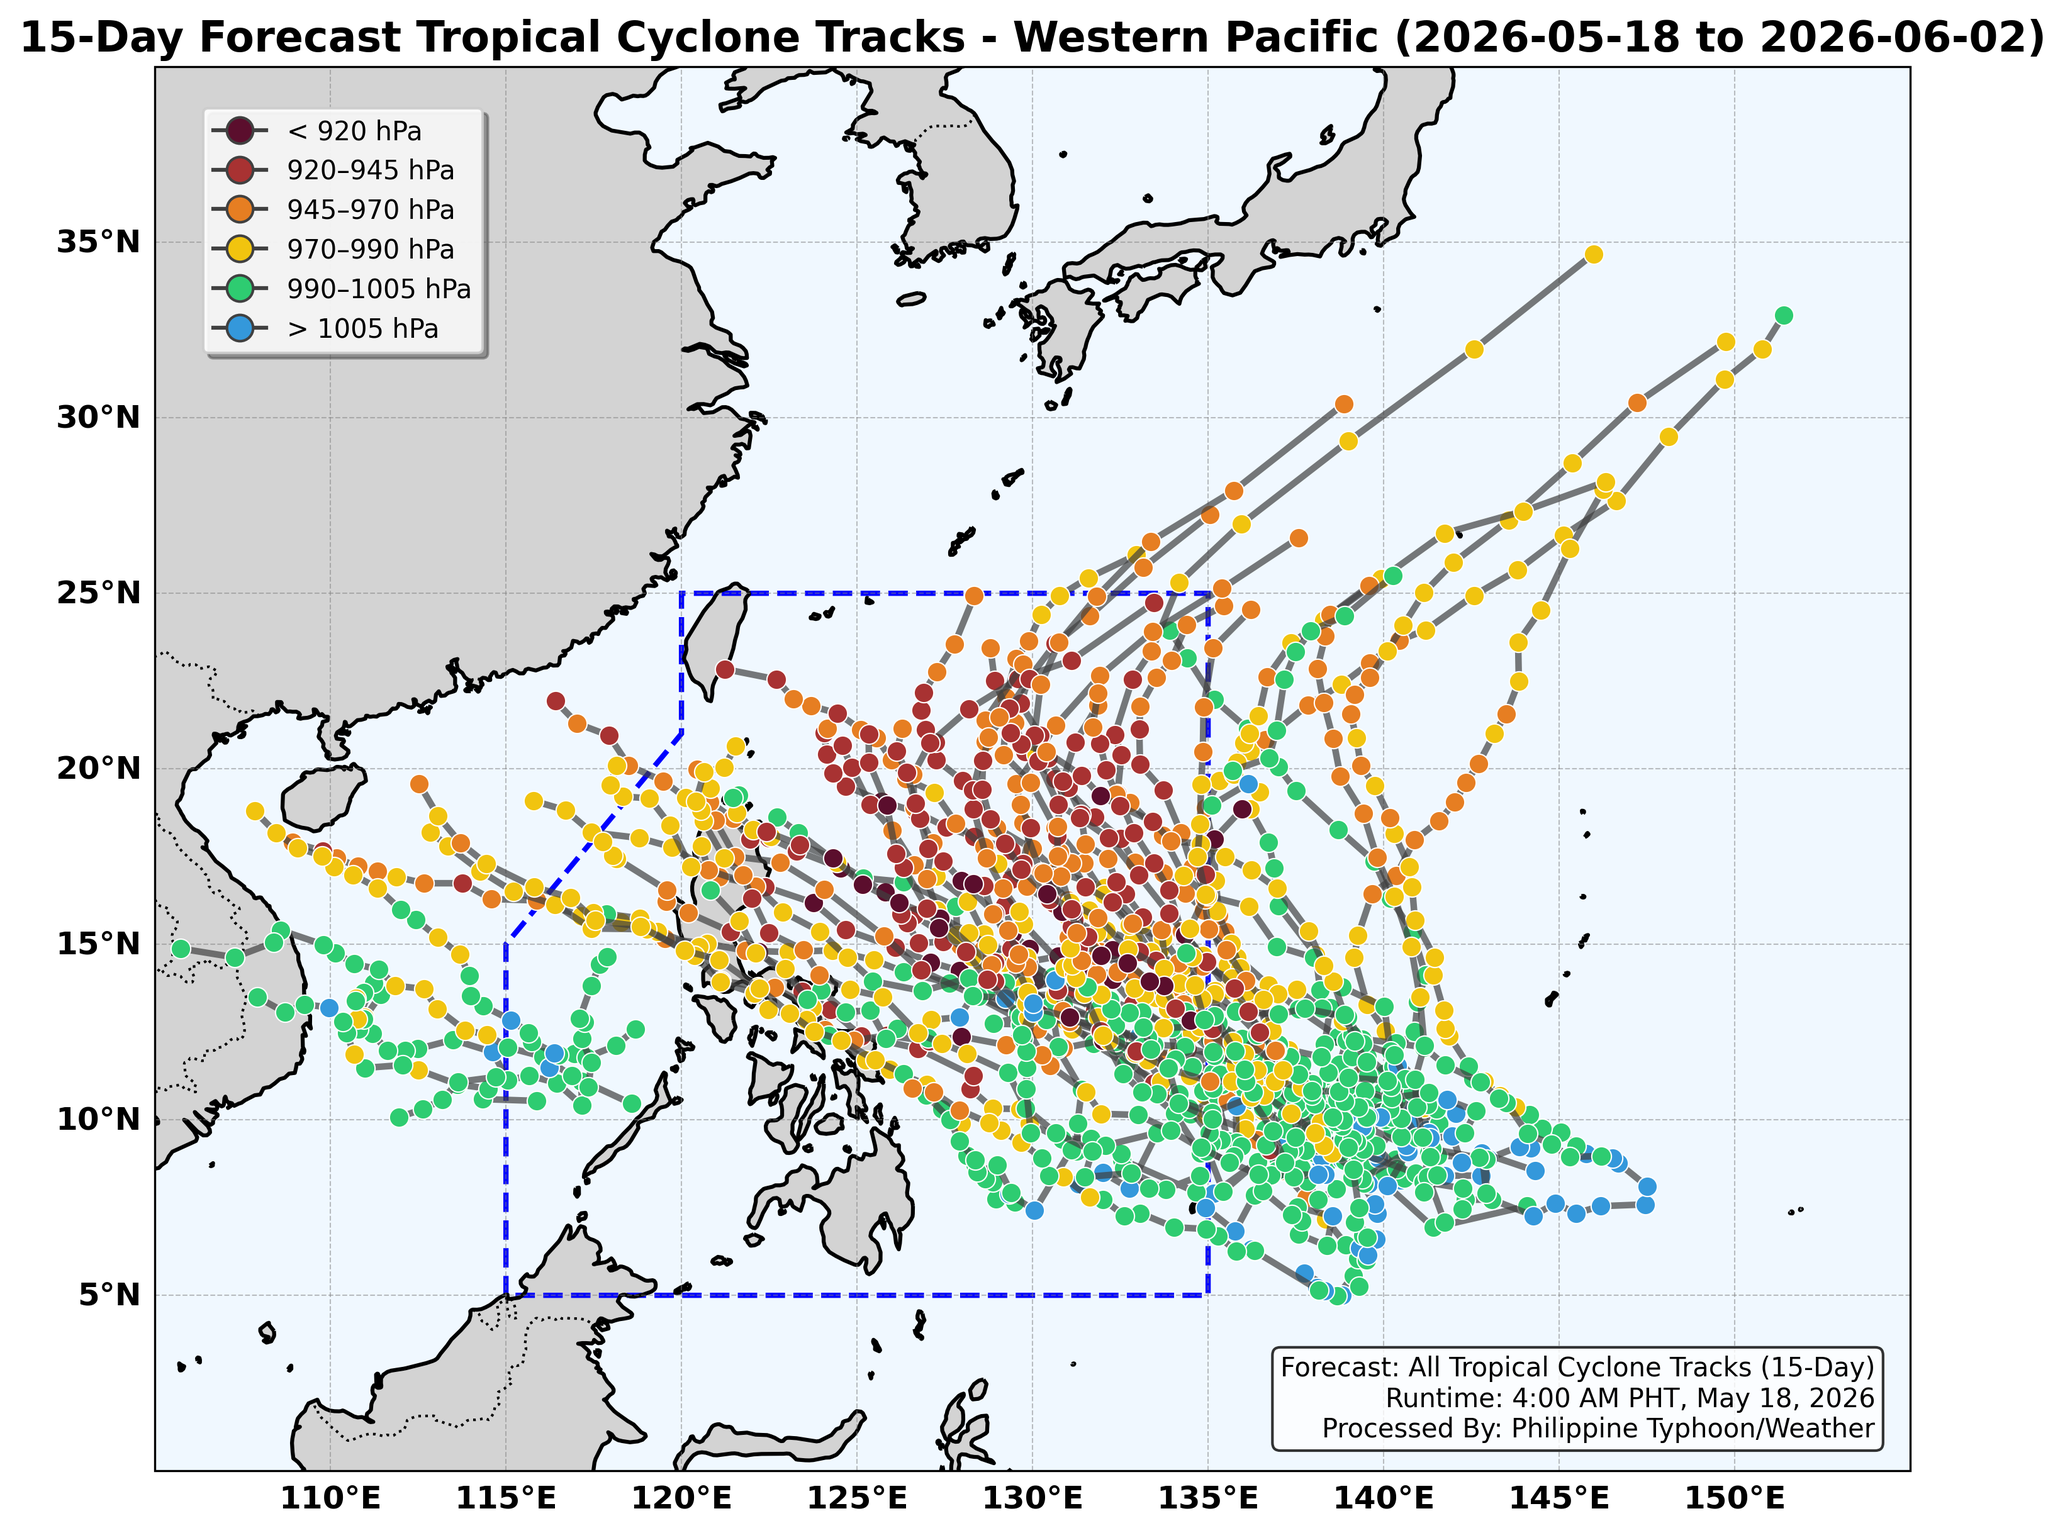
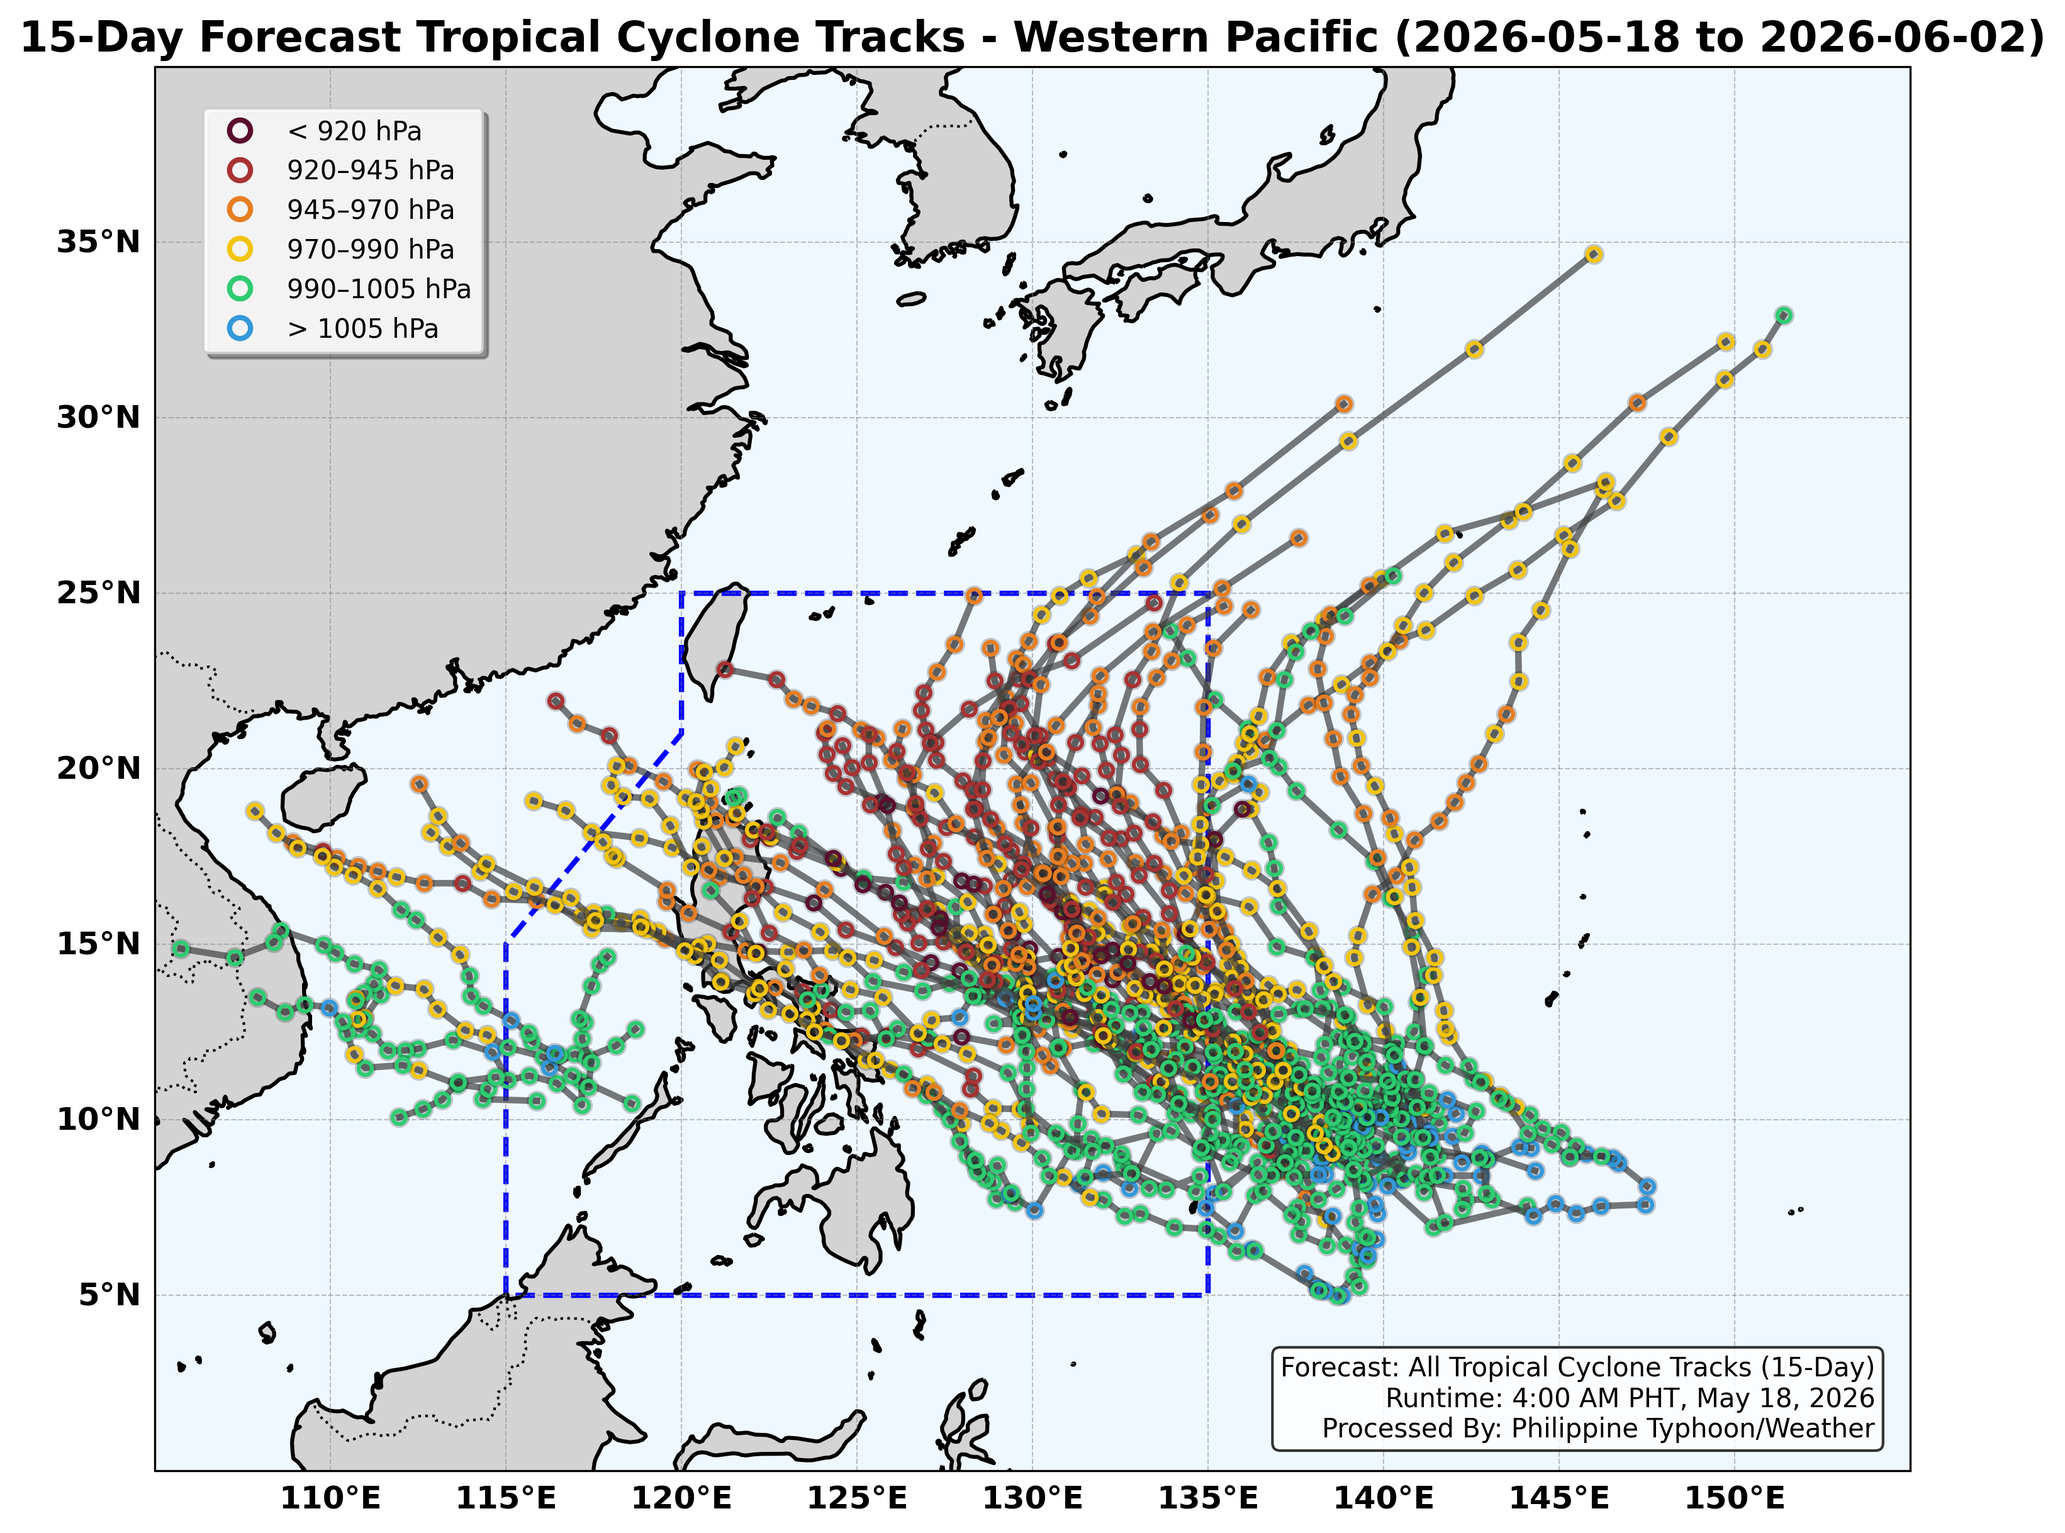
refactor: update visualization markers to donut style and add SpaghettiPlot component for web-based ensemble tracking

diff --git a/src/components/SpaghettiPlot.jsx b/src/components/SpaghettiPlot.jsx
@@ -538,8 +538,8 @@ export default function SpaghettiPlot() {
                 const animGroup = L.layerGroup().addTo(animLayerGroupRef.current);
 
                 const animMarker = L.circleMarker([0, 0], {
-                    radius: 5, color: "white", weight: 1,
-                    fillColor: "transparent", fillOpacity: 0.9, opacity: 0
+                    radius: 7, color: "#38bdf8", weight: 2,
+                    fillColor: "transparent", fillOpacity: 0, opacity: 0
                 }).addTo(animLayerGroupRef.current);
 
                 animObjectsRef.current.push({
@@ -560,13 +560,13 @@ export default function SpaghettiPlot() {
 
                 for (const pt of points) {
                     const mark = L.circleMarker([pt.lat, pt.lon], {
-                        radius: 3.5, color: "white", weight: 0.8,
-                        fillColor: windColor(pt.windKt), fillOpacity: 0.9,
-                        opacity: 1
+                        radius: 4, color: windColor(pt.windKt), weight: 1.5,
+                        fillColor: "transparent", fillOpacity: 0,
+                        opacity: 0.9
                     });
                     mark.distId = distId;
-                    mark.defaultFillOpacity = 0.9;
-                    mark.defaultStrokeOpacity = 1;
+                    mark.defaultFillOpacity = 0;
+                    mark.defaultStrokeOpacity = 0.9;
                     mark.addTo(layerGroupRef.current);
                 }
 
@@ -1135,8 +1135,8 @@ export default function SpaghettiPlot() {
                     // Mean position dots colored by wind speed
                     for (const pt of meanPts) {
                         const mk = L.circleMarker([pt.lat, pt.lon], {
-                            radius: 5, color: "#000000", weight: 2,
-                            fillColor: windColor(pt.windKt), fillOpacity: 1, opacity: 1
+                            radius: 6, color: windColor(pt.windKt), weight: 2,
+                            fillColor: "transparent", fillOpacity: 0, opacity: 1
                         });
                         mk.distId = dist.id;
 
@@ -1228,7 +1228,7 @@ export default function SpaghettiPlot() {
                 } else if (layer instanceof L.Polyline && !(layer instanceof L.CircleMarker)) {
                     layer.setStyle({ opacity: isSelected ? 0.95 : 0.05 });
                 } else if (layer instanceof L.CircleMarker) {
-                    layer.setStyle({ fillOpacity: isSelected ? 1 : 0.05, opacity: isSelected ? 1 : 0.05 });
+                    layer.setStyle({ fillOpacity: 0, opacity: isSelected ? 1 : 0.05 });
                 }
             });
         }
@@ -1326,9 +1326,9 @@ export default function SpaghettiPlot() {
             const lastPt = visiblePts[visiblePts.length - 1];
             obj.marker.setLatLng([lastPt.lat, lastPt.lon]);
             obj.marker.setStyle({
-                fillColor: windColor(lastPt.windKt),
+                color: windColor(lastPt.windKt),
                 opacity: 1,
-                fillOpacity: 0.9
+                fillOpacity: 0
             });
         }
     }, [animHour, viewMode, activeDisturbanceId, status, meanOnlyIds]);

diff --git a/plot_aifs_tracks.py b/plot_aifs_tracks.py
@@ -85,12 +85,17 @@ def generate_plot(data, max_lead_time, output_file, title, runtime_text):
                     skipped_tracks += 1
                     continue
 
-                ax.plot(lons, lats, color='#404040', linewidth=2.5, alpha=0.7, transform=ccrs.PlateCarree())
+                ax.plot(lons, lats, color='#1a1a1a', linewidth=2.0, alpha=0.55, transform=ccrs.PlateCarree())
                 for i in range(len(lons)):
                     color = get_pressure_color(pressures[i])
                     if color is None: continue
-                    ax.plot(lons[i], lats[i], color='white', marker='o', markersize=8, markeredgewidth=0, transform=ccrs.PlateCarree())
-                    ax.plot(lons[i], lats[i], color=color, marker='o', markersize=6, transform=ccrs.PlateCarree())
+                    # Shadow
+                    ax.plot(lons[i], lats[i], color='black', marker='o', markersize=8,
+                            markeredgewidth=0, alpha=0.2, transform=ccrs.PlateCarree(), zorder=4)
+                    # Colored donut ring (transparent center)
+                    ax.plot(lons[i], lats[i], markerfacecolor='none', markeredgecolor=color,
+                            marker='o', markersize=5, markeredgewidth=1.5,
+                            transform=ccrs.PlateCarree(), zorder=5)
                 plotted_tracks += 1
 
     pressure_ranges = [
@@ -102,7 +107,8 @@ def generate_plot(data, max_lead_time, output_file, title, runtime_text):
         {'pressure_range': '> 1005 hPa', 'color': '#3498DB'}
     ]
     legend_elements = [
-        plt.Line2D([0], [0], marker='o', color='#404040', markerfacecolor=r['color'], markersize=10, label=r['pressure_range'])
+        plt.Line2D([0], [0], marker='o', color='none', markerfacecolor='none',
+                   markeredgecolor=r['color'], markeredgewidth=2, markersize=8, label=r['pressure_range'])
         for r in pressure_ranges
     ]
     legend = ax.legend(handles=legend_elements, loc='upper left', bbox_to_anchor=(0.02, 0.98), frameon=True, fancybox=True, shadow=True, fontsize=10)

diff --git a/plot_ifs_tracks.py b/plot_ifs_tracks.py
@@ -85,12 +85,17 @@ def generate_plot(data, max_lead_time, output_file, title, runtime_text):
                     skipped_tracks += 1
                     continue
 
-                ax.plot(lons, lats, color='#404040', linewidth=2.5, alpha=0.7, transform=ccrs.PlateCarree())
+                ax.plot(lons, lats, color='#1a1a1a', linewidth=2.0, alpha=0.55, transform=ccrs.PlateCarree())
                 for i in range(len(lons)):
                     color = get_pressure_color(pressures[i])
                     if color is None: continue
-                    ax.plot(lons[i], lats[i], color='white', marker='o', markersize=8, markeredgewidth=0, transform=ccrs.PlateCarree())
-                    ax.plot(lons[i], lats[i], color=color, marker='o', markersize=6, transform=ccrs.PlateCarree())
+                    # Shadow
+                    ax.plot(lons[i], lats[i], color='black', marker='o', markersize=8,
+                            markeredgewidth=0, alpha=0.2, transform=ccrs.PlateCarree(), zorder=4)
+                    # Colored donut ring (transparent center)
+                    ax.plot(lons[i], lats[i], markerfacecolor='none', markeredgecolor=color,
+                            marker='o', markersize=5, markeredgewidth=1.5,
+                            transform=ccrs.PlateCarree(), zorder=5)
                 plotted_tracks += 1
 
     pressure_ranges = [
@@ -102,7 +107,8 @@ def generate_plot(data, max_lead_time, output_file, title, runtime_text):
         {'pressure_range': '> 1005 hPa', 'color': '#3498DB'}
     ]
     legend_elements = [
-        plt.Line2D([0], [0], marker='o', color='#404040', markerfacecolor=r['color'], markersize=10, label=r['pressure_range'])
+        plt.Line2D([0], [0], marker='o', color='none', markerfacecolor='none',
+                   markeredgecolor=r['color'], markeredgewidth=2, markersize=8, label=r['pressure_range'])
         for r in pressure_ranges
     ]
     legend = ax.legend(handles=legend_elements, loc='upper left', bbox_to_anchor=(0.02, 0.98), frameon=True, fancybox=True, shadow=True, fontsize=10)

diff --git a/Forcast.py b/Forcast.py
@@ -216,26 +216,18 @@ for init_time in init_times:
                 alpha=0.7,  # Reduced opacity for clarity
                 transform=ccrs.PlateCarree()
             )
-            # Plot colored markers
+            # Plot donut markers at each point
             for i in range(len(lons)):
                 color = get_pressure_color(pressures[i])
                 if color is None:
                     continue
-                ax.plot(
-                    lons[i], lats[i],
-                    color='white',
-                    marker='o',
-                    markersize=8,
-                    markeredgewidth=0,
-                    transform=ccrs.PlateCarree()
-                )
-                ax.plot(
-                    lons[i], lats[i],
-                    color=color,
-                    marker='o',
-                    markersize=6,
-                    transform=ccrs.PlateCarree()
-                )
+                # Shadow
+                ax.plot(lons[i], lats[i], color='black', marker='o', markersize=8,
+                        markeredgewidth=0, alpha=0.2, transform=ccrs.PlateCarree())
+                # Colored donut ring (transparent center)
+                ax.plot(lons[i], lats[i], markerfacecolor='none', markeredgecolor=color,
+                        marker='o', markersize=5, markeredgewidth=1.5,
+                        transform=ccrs.PlateCarree())
             plotted_tracks += 1
 
 # Define pressure ranges with custom colors (only pressure ranges, no category labels)
@@ -251,8 +243,9 @@ pressure_ranges = [
 # Create legend elements with only pressure ranges
 legend_elements = [
     plt.Line2D(
-        [0], [0], marker='o', color='#404040', markerfacecolor=range_info['color'],
-        markersize=10, label=range_info['pressure_range']
+        [0], [0], marker='o', color='none', markerfacecolor='none',
+        markeredgecolor=range_info['color'], markeredgewidth=2,
+        markersize=8, label=range_info['pressure_range']
     )
     for range_info in pressure_ranges
 ]

diff --git a/forcast4.py b/forcast4.py
@@ -215,26 +215,18 @@ for init_time in init_times:
                 alpha=0.7,  # Reduced opacity for clarity
                 transform=ccrs.PlateCarree()
             )
-            # Plot colored markers
+            # Plot donut markers at each point
             for i in range(len(lons)):
                 color = get_pressure_color(pressures[i])
                 if color is None:
                     continue
-                ax.plot(
-                    lons[i], lats[i],
-                    color='white',
-                    marker='o',
-                    markersize=8,
-                    markeredgewidth=0,
-                    transform=ccrs.PlateCarree()
-                )
-                ax.plot(
-                    lons[i], lats[i],
-                    color=color,
-                    marker='o',
-                    markersize=6,
-                    transform=ccrs.PlateCarree()
-                )
+                # Shadow
+                ax.plot(lons[i], lats[i], color='black', marker='o', markersize=8,
+                        markeredgewidth=0, alpha=0.2, transform=ccrs.PlateCarree())
+                # Colored donut ring (transparent center)
+                ax.plot(lons[i], lats[i], markerfacecolor='none', markeredgecolor=color,
+                        marker='o', markersize=5, markeredgewidth=1.5,
+                        transform=ccrs.PlateCarree())
             plotted_tracks += 1
 
 # Define pressure ranges with custom colors (only pressure ranges, no category labels)
@@ -250,8 +242,9 @@ pressure_ranges = [
 # Create legend elements with only pressure ranges
 legend_elements = [
     plt.Line2D(
-        [0], [0], marker='o', color='#404040', markerfacecolor=range_info['color'],
-        markersize=10, label=range_info['pressure_range']
+        [0], [0], marker='o', color='none', markerfacecolor='none',
+        markeredgecolor=range_info['color'], markeredgewidth=2,
+        markersize=8, label=range_info['pressure_range']
     )
     for range_info in pressure_ranges
 ]

diff --git a/Forcast2.py b/Forcast2.py
@@ -207,26 +207,18 @@ for init_time in init_times:
                 alpha=0.7,
                 transform=ccrs.PlateCarree()
             )
-            # Plot colored markers at each point with white outline
+            # Plot donut markers at each point
             for i in range(len(lons)):
                 color = get_pressure_color(pressures[i])
                 if color is None:
                     continue
-                ax.plot(
-                    lons[i], lats[i],
-                    color='white',
-                    marker='o',
-                    markersize=8,
-                    markeredgewidth=0,
-                    transform=ccrs.PlateCarree()
-                )
-                ax.plot(
-                    lons[i], lats[i],
-                    color=color,
-                    marker='o',
-                    markersize=6,
-                    transform=ccrs.PlateCarree()
-                )
+                # Shadow
+                ax.plot(lons[i], lats[i], color='black', marker='o', markersize=8,
+                        markeredgewidth=0, alpha=0.2, transform=ccrs.PlateCarree())
+                # Colored donut ring (transparent center)
+                ax.plot(lons[i], lats[i], markerfacecolor='none', markeredgecolor=color,
+                        marker='o', markersize=5, markeredgewidth=1.5,
+                        transform=ccrs.PlateCarree())
             plotted_tracks += 1
 
 # Define pressure ranges with custom colors
@@ -242,8 +234,9 @@ pressure_ranges = [
 # Create legend elements
 legend_elements = [
     plt.Line2D(
-        [0], [0], marker='o', color='#404040', markerfacecolor=range_info['color'],
-        markersize=10, label=range_info['pressure_range']
+        [0], [0], marker='o', color='none', markerfacecolor='none',
+        markeredgecolor=range_info['color'], markeredgewidth=2,
+        markersize=8, label=range_info['pressure_range']
     )
     for range_info in pressure_ranges
 ]

diff --git a/Forcast3.py b/Forcast3.py
@@ -208,26 +208,18 @@ for init_time in init_times:
                 alpha=0.7,
                 transform=ccrs.PlateCarree()
             )
-            # Plot colored markers at each point with white outline
+            # Plot donut markers at each point
             for i in range(len(lons)):
                 color = get_pressure_color(pressures[i])
                 if color is None:
                     continue
-                ax.plot(
-                    lons[i], lats[i],
-                    color='white',
-                    marker='o',
-                    markersize=8,
-                    markeredgewidth=0,
-                    transform=ccrs.PlateCarree()
-                )
-                ax.plot(
-                    lons[i], lats[i],
-                    color=color,
-                    marker='o',
-                    markersize=6,
-                    transform=ccrs.PlateCarree()
-                )
+                # Shadow
+                ax.plot(lons[i], lats[i], color='black', marker='o', markersize=8,
+                        markeredgewidth=0, alpha=0.2, transform=ccrs.PlateCarree())
+                # Colored donut ring (transparent center)
+                ax.plot(lons[i], lats[i], markerfacecolor='none', markeredgecolor=color,
+                        marker='o', markersize=5, markeredgewidth=1.5,
+                        transform=ccrs.PlateCarree())
             plotted_tracks += 1
 
 # Define pressure ranges with custom colors
@@ -243,8 +235,9 @@ pressure_ranges = [
 # Create legend elements
 legend_elements = [
     plt.Line2D(
-        [0], [0], marker='o', color='#404040', markerfacecolor=range_info['color'],
-        markersize=10, label=range_info['pressure_range']
+        [0], [0], marker='o', color='none', markerfacecolor='none',
+        markeredgecolor=range_info['color'], markeredgewidth=2,
+        markersize=8, label=range_info['pressure_range']
     )
     for range_info in pressure_ranges
 ]
